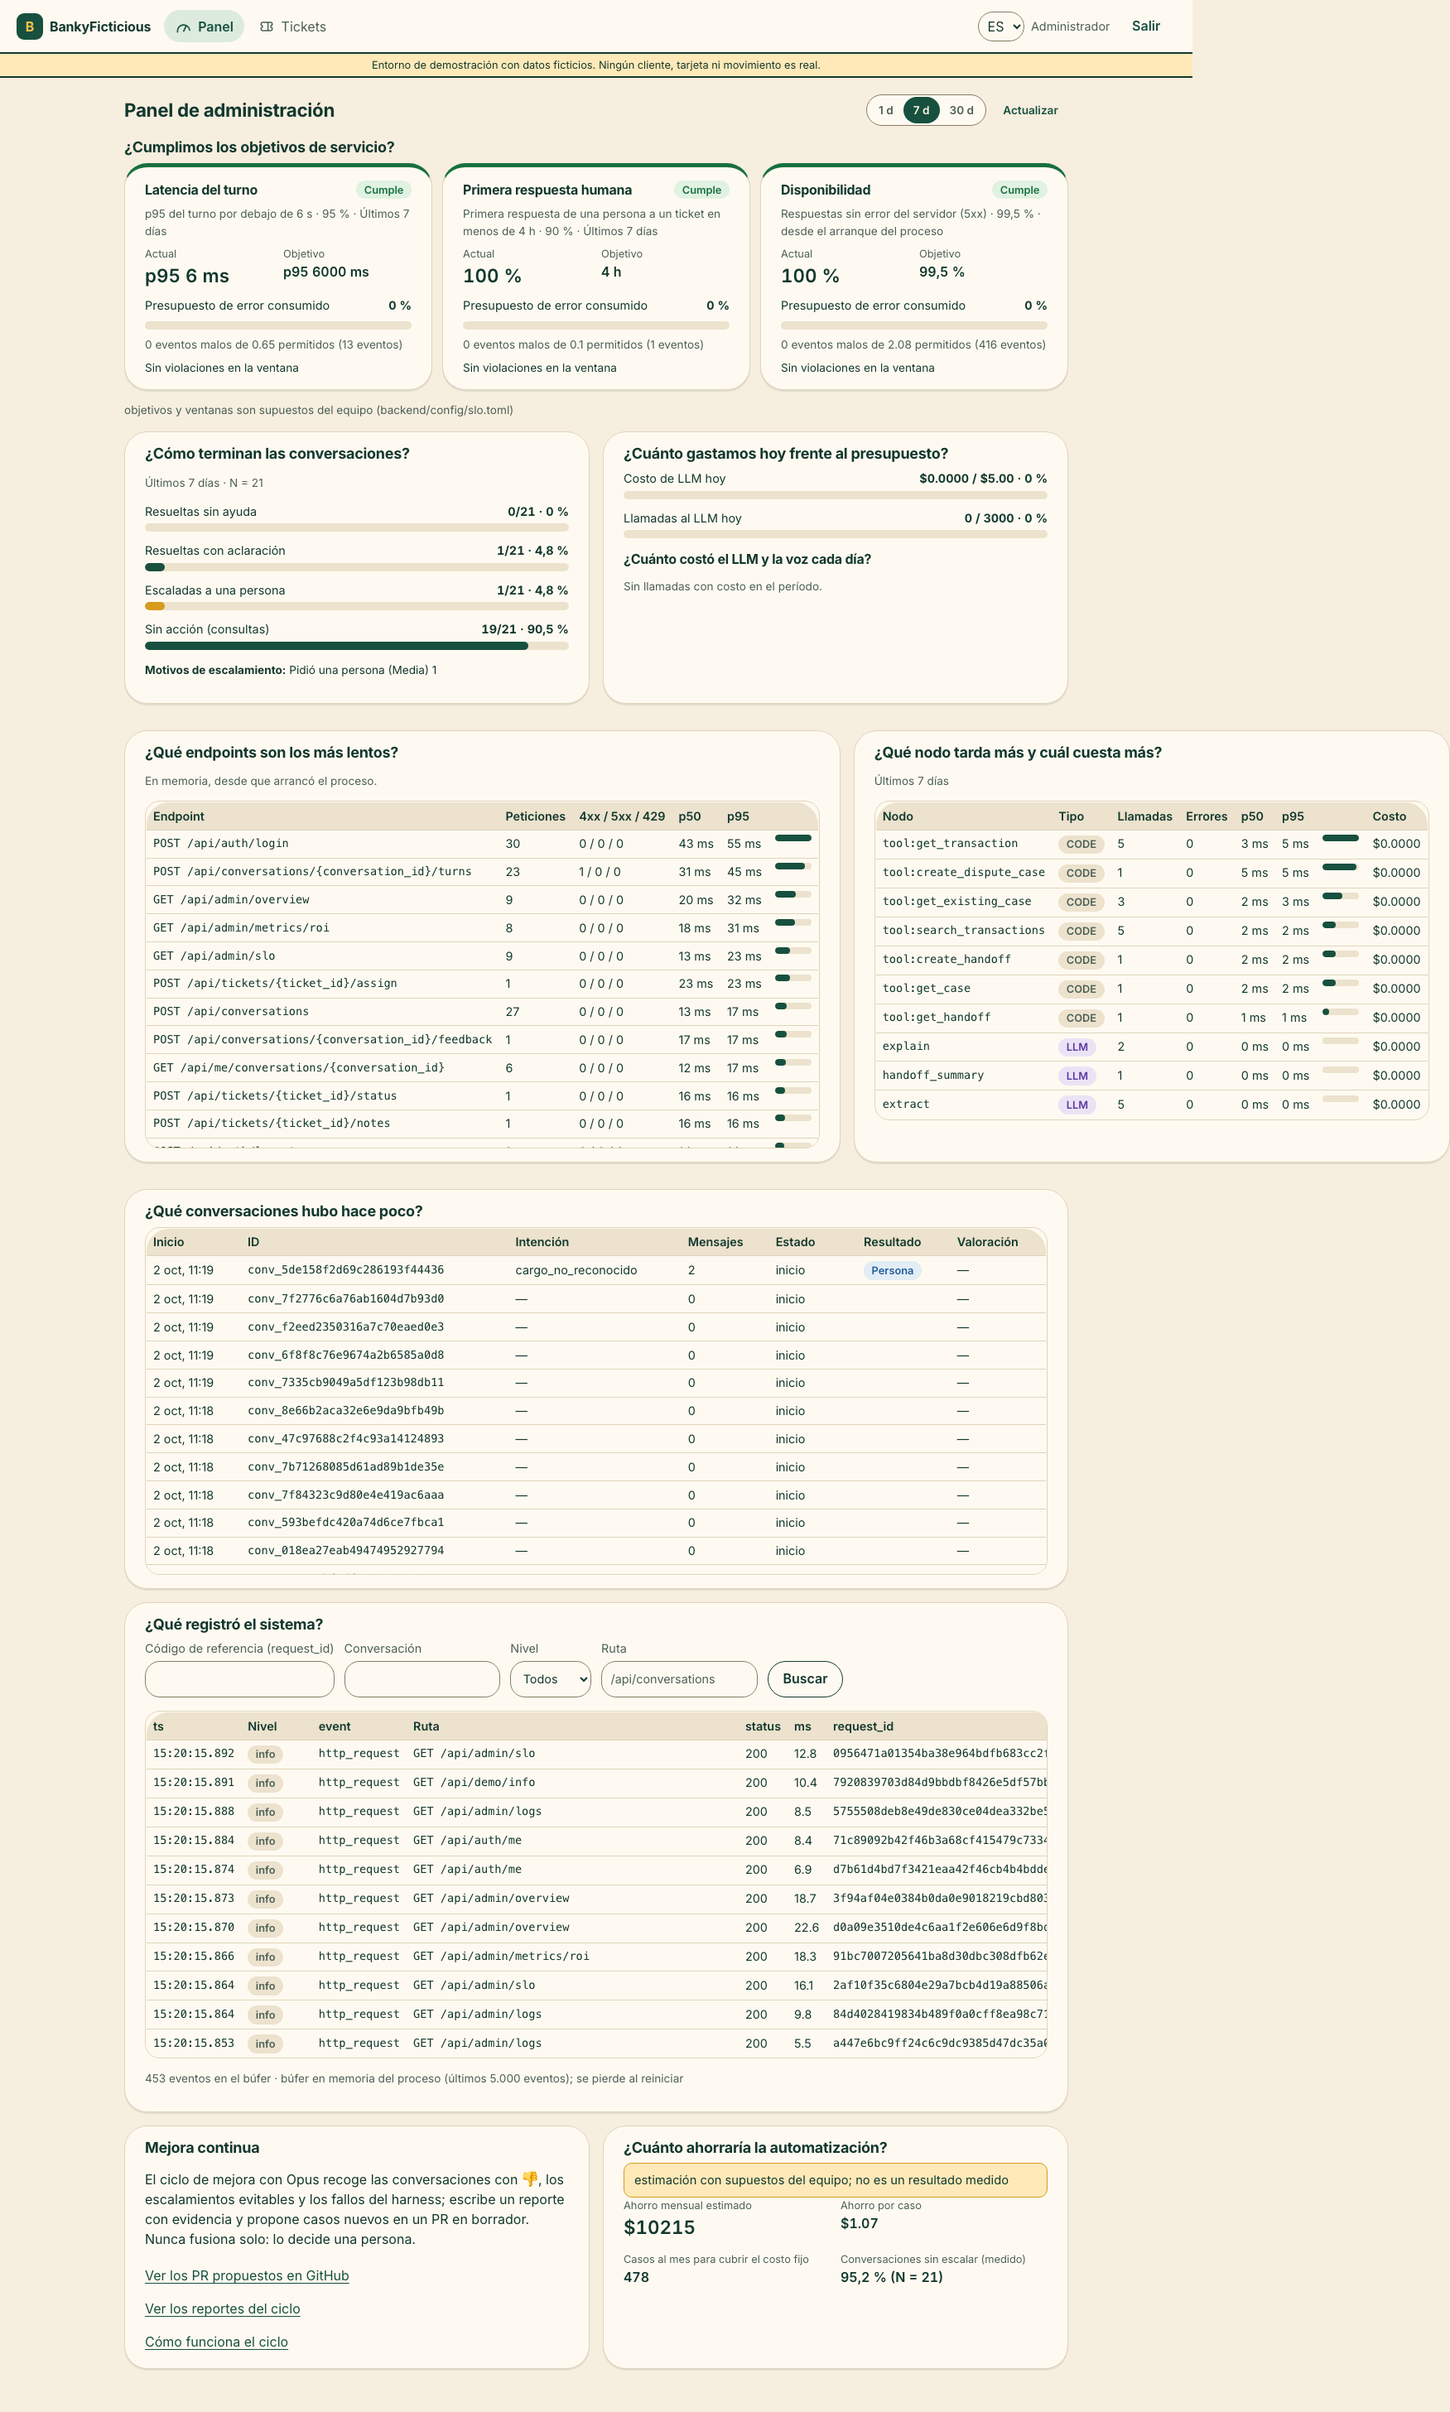
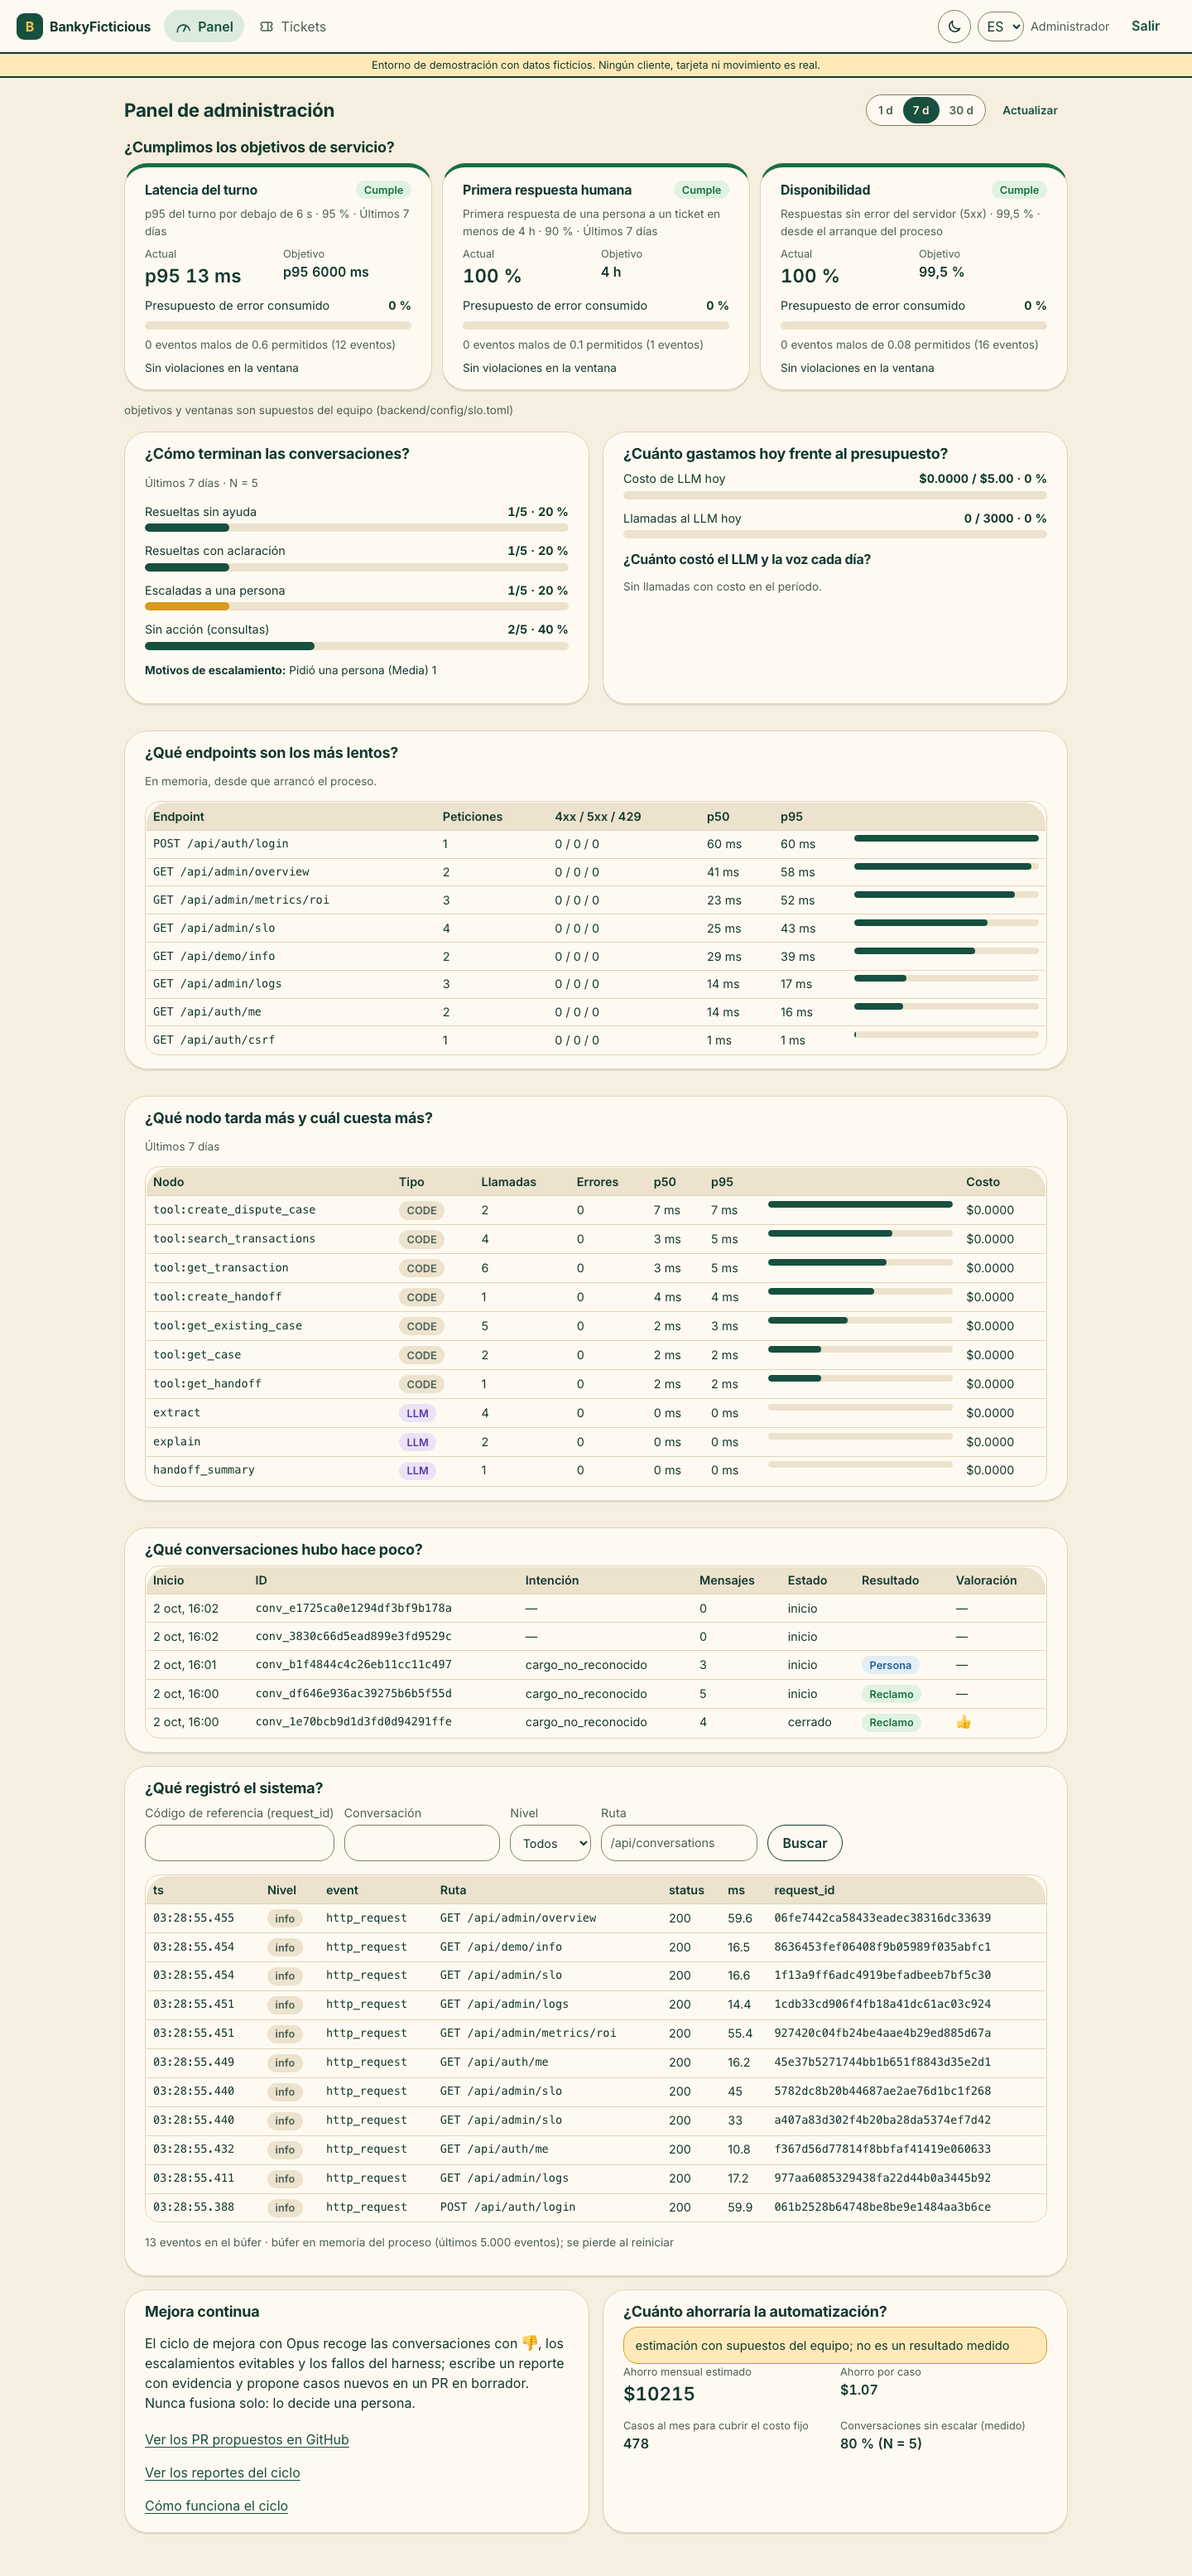
fix(frontend): admin node and endpoint tables no longer overflow the page
UX bug reported on `/admin`: the "¿Qué nodo tarda más y cuál cuesta más?" card overflowed to the right and its last columns (p95 bar, cost) were cut off.

- Cause: the endpoints and nodes tables sat side by side in a two-column grid. Grid columns of `1fr` cannot shrink below their content, and both tables are wide (no-wrap cells), so the right card grew past the page.
- Fix: those two wide tables now go one below the other, each with the full width, so every column is visible (including the p95 bar and the cost). Every `.two-col` grid now uses `minmax(0, 1fr)` columns, so a wide table scrolls inside its card instead of breaking the layout.
- Checked at 1440 and 1100 px in light and dark mode: the card stays inside the page (no horizontal page scroll).

Closes #117

Changed region(s): [[0.0, 0.0, 1.0, 0.9997]]

diff --git a/frontend/src/styles.css b/frontend/src/styles.css
@@ -178,7 +178,8 @@ fieldset.card { margin: 0; }
 .grid tr.has-error td { background: var(--err-bg); }
 .grid tr.detail pre { margin: 0; max-height: 360px; overflow: auto; font-size: 0.8rem; background: var(--paper); padding: 0.75rem; border-radius: 8px; }
 .meta { color: var(--muted); font-size: 0.9rem; }
-.two-col { display: grid; grid-template-columns: 1fr 1fr; gap: 1rem; }
+.two-col { display: grid; grid-template-columns: minmax(0, 1fr) minmax(0, 1fr); gap: 1rem; }
+.two-col > * { min-width: 0; }            /* una tabla ancha se desplaza dentro de su tarjeta en vez de desbordar la columna */
 .handoff-detail .plain li { padding: 0.25rem 0; }
 
 @media (max-width: 720px) {
@@ -353,7 +354,9 @@ label.check { min-height: 44px; }
 }
 
 /* panel de administración */
-.admin > section, .admin > .two-col { margin-bottom: var(--s-4); }
+.admin > section, .admin > .two-col, .admin > .admin-tables { margin-bottom: var(--s-4); }
+.admin-tables { display: grid; gap: var(--s-4); }
+.admin-tables > * { min-width: 0; }
 .admin h2 { font-size: var(--text-lg); }
 .admin h3 { font-size: var(--text-md); margin: var(--s-4) 0 var(--s-2); }
 .admin-head { display: flex; flex-wrap: wrap; justify-content: space-between; align-items: center; gap: var(--s-3); margin-bottom: var(--s-4); }

diff --git a/frontend/src/pages/AdminPage.tsx b/frontend/src/pages/AdminPage.tsx
@@ -189,7 +189,7 @@ export default function AdminPage() {
             </section>
           </div>
 
-          <div className="two-col">
+          <div className="admin-tables">          {/* tablas anchas: una debajo de la otra, cada una con todo el ancho */}
             <section className="card" aria-labelledby="adm-ep">
               <h2 id="adm-ep">{a.endpointsTitle}</h2>
               <p className="muted small">{a.endpointsNote}</p>
